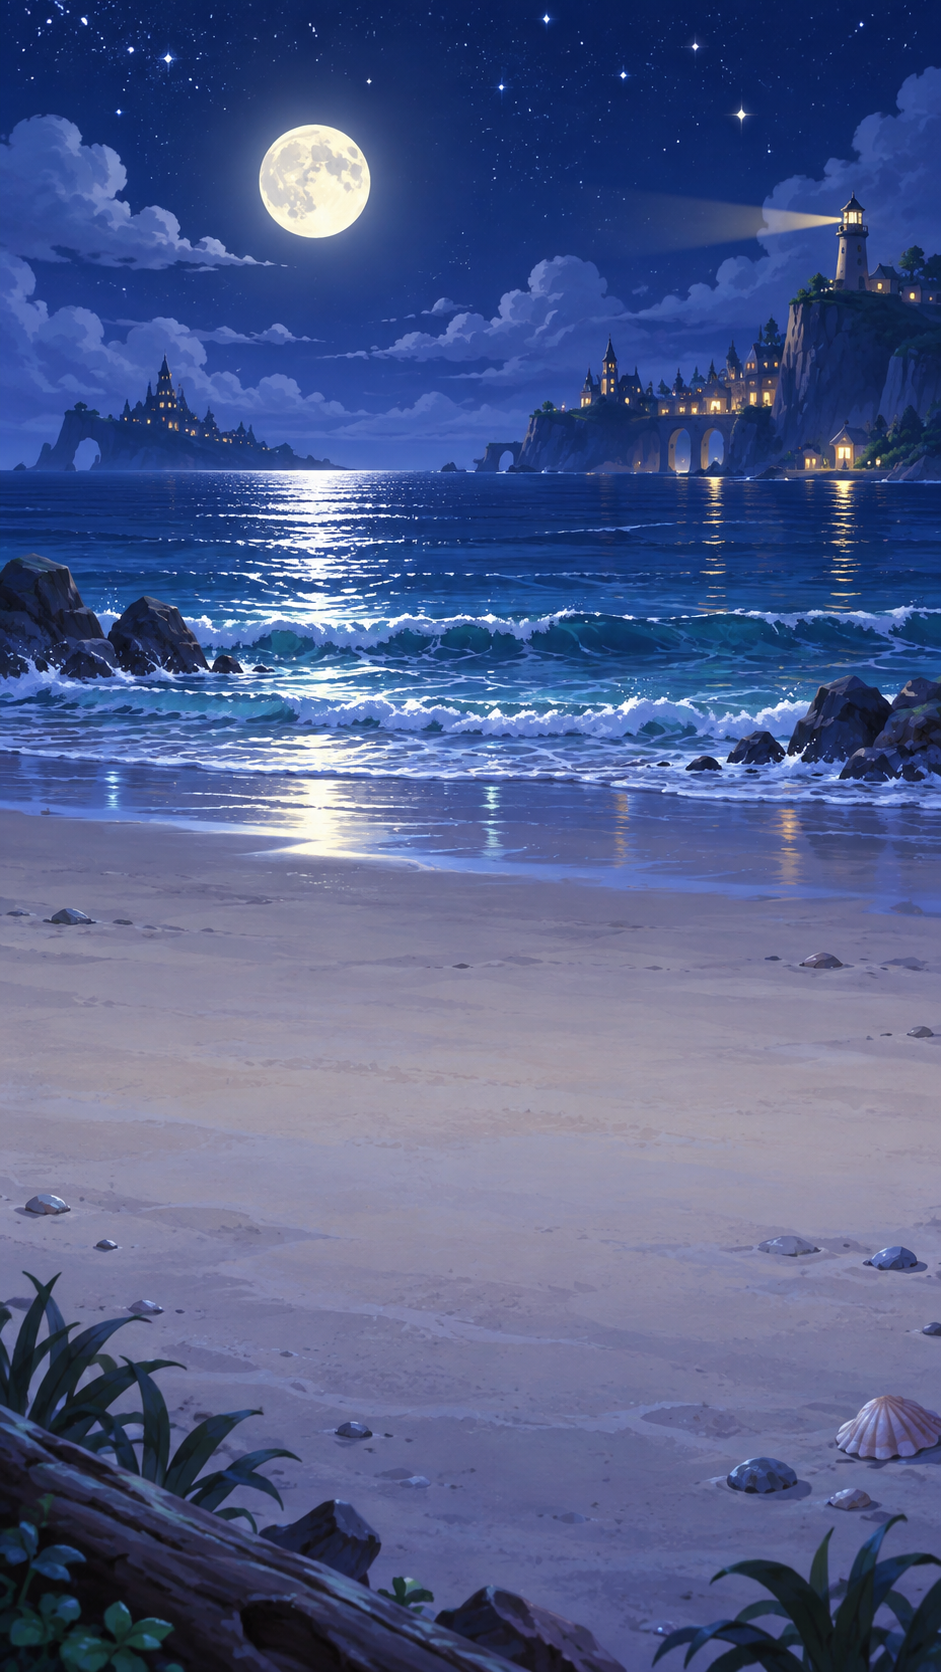
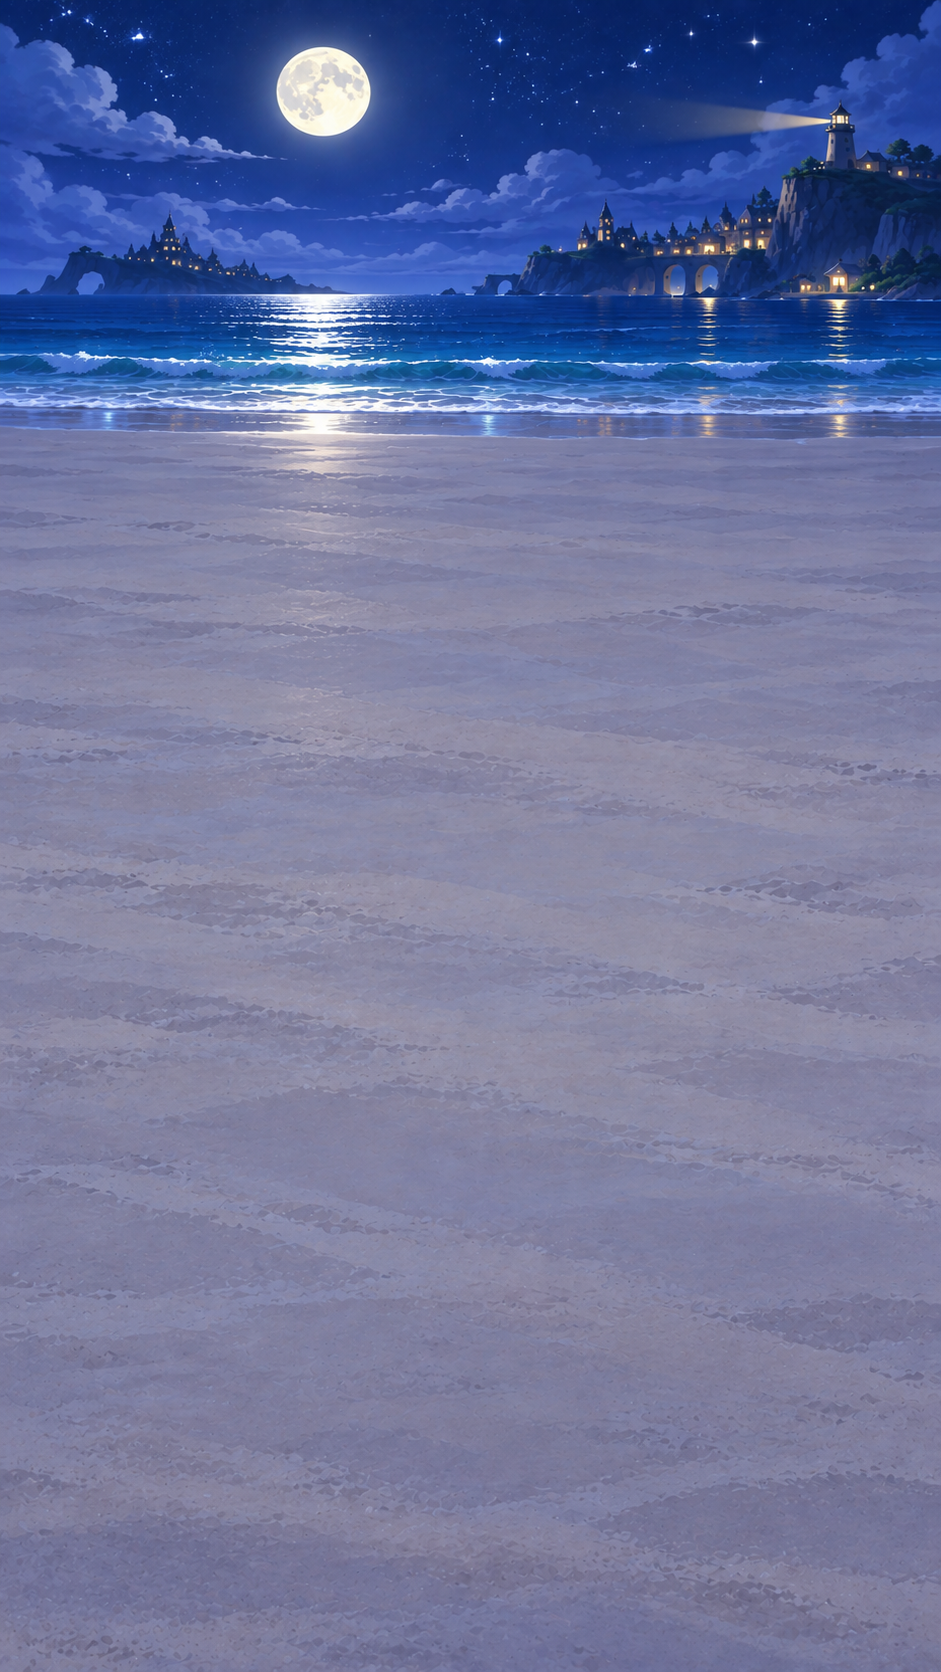
戦闘背景を地面拡張版に差し替え、キャラ配置スペースを確保

diff --git a/docs/spec/fields.md b/docs/spec/fields.md
@@ -29,6 +29,27 @@
 
 コピー漏れを防ぐため、ファイルを拾う際は `f0*` のような桁数を仮定したパターンではなく、`f*` のように接頭辞のみで網羅的に検索すること（`f10` 以降が `f0*` では引っかからず一度取りこぼした実績あり）。
 
+## 地面拡張版への差し替え（v1）
+
+元データ: `C:\Users\田中宏樹\Documents\Codex\hirogames_images\assets\backgrounds\battle\ground_expanded_v1\`（このアプリのリポジトリ外にある画像制作用フォルダ、`README.md`に仕様あり）。
+
+キャラクターを配置できる地面のスペースが少なすぎるという指摘を受け、10種類すべてを「遠景（空・海・建物など）を上部20%に集約し、下部80%を地面として確保」した加工版（941×1672px）に差し替えた（ユーザー確認済み）。ファイル名・`f{連番2桁}`の対応関係・[lib/enemy-scaling.ts](../../lib/enemy-scaling.ts)の`getFieldImagePathForStage()`は変更していない（同じファイル名のまま中身だけ差し替え）。対応関係は以下の通り（元データ側のファイル名 → このアプリでのファイル名）。
+
+| 元データ | このアプリ |
+| --- | --- |
+| `grass_day.png` | `f01_sougen_hiru.png` |
+| `grass_night.png` | `f02_sougen_yoru.png` |
+| `town_day.png` | `f03_machi_hiru.png` |
+| `town_night.png` | `f04_machi_yoru.png` |
+| `wasteland.png` | `f05_arechi.png` |
+| `cave.png` | `f06_doukutsu.png` |
+| `forest.png` | `f07_shinrin.png` |
+| `volcano.png` | `f08_kazan.png` |
+| `beach_day.png` | `f09_kaigan_hiru.png` |
+| `beach_night.png` | `f10_kaigan_yoru.png` |
+
+この差し替えに合わせて、キャラクター・敵の表示サイズを大きくする調整を別途行う予定（本差し替えではファイルの入れ替えのみ行い、配置・サイズの調整はまだ行っていない）。
+
 ## 今後
 
 - 冒険の画面構成（戦闘のみ／探索フィールド＋戦闘の切り替え）が決まり次第、該当する画面の仕様書を追加し、ここからリンクする。
